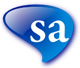
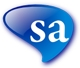
- corrigi erro na geração de relatório em PDF, cria novo estilo css para relatórios PDF utilizados pela biblioteca html2pdf e retira fundo transparente das imagens, fecha #286

diff --git a/public/styles/relatorio_pdf.css b/public/styles/relatorio_pdf.css
@@ -1,0 +1,49 @@
+/*Pesquisa*/
+
+body {
+	font-family: Helvetica, Arial, Verdana, sans-serif;
+	font-size:12px;
+	color:#000000;
+	margin: 0px;
+}
+img {
+	border: none;
+}
+h2 {
+	font-size:20px;
+}
+
+.corpo {
+	background-color:#FFFFFF;
+}
+.tabela_relatorio table {  
+	border: 0.06em solid ; 
+	border-collapse: collapse; 
+	/*border-spacing: 0px; */
+	padding: 0px;
+}
+.tabela_relatorio th {
+	text-decoration:none;
+	font-style:normal;
+	font-family: Helvetica, Arial, Verdana, sans-serif;
+	font-size:10px;
+	font-weight:bold;
+	background-color:#000000;
+	color:#ffffff;
+	border: 0.02em solid;
+	padding: 0.3em;
+	border-collapse: collapse; 
+	border-spacing: 0.015em;
+}
+.tabela_relatorio td { 
+	border: 0.02em solid;
+	padding: 0.25em;
+	border-collapse: collapse; 
+	border-spacing: 0.015em;
+	text-decoration:none;
+	font-style:normal;
+	font-family: Helvetica, Arial, Verdana, sans-serif;
+	font-size:10px;
+	color:#000000;
+}
+

diff --git a/app/relatorios/aprovados_reprovados/pdf_aprovados_reprovados.php b/app/relatorios/aprovados_reprovados/pdf_aprovados_reprovados.php
@@ -5,6 +5,7 @@ ob_start();
 
 ?>
 <link href="../../../public/styles/style.css" rel="stylesheet" type="text/css">
+<link href="../../../public/styles/relatorio_pdf.css" rel="stylesheet" type="text/css">
 <page backtop="10mm" backbottom="10mm" >
 	<page_header></page_header>
 	<page_footer>	

diff --git a/app/relatorios/matriculados/pdf_alunos.php b/app/relatorios/matriculados/pdf_alunos.php
@@ -5,6 +5,7 @@ ob_start();
 
 ?>
 <link href="../../../public/styles/style.css" rel="stylesheet" type="text/css">
+<link href="../../../public/styles/relatorio_pdf.css" rel="stylesheet" type="text/css">
 <page backtop="10mm" backbottom="10mm" >
 	<page_header></page_header>
 	<page_footer>
